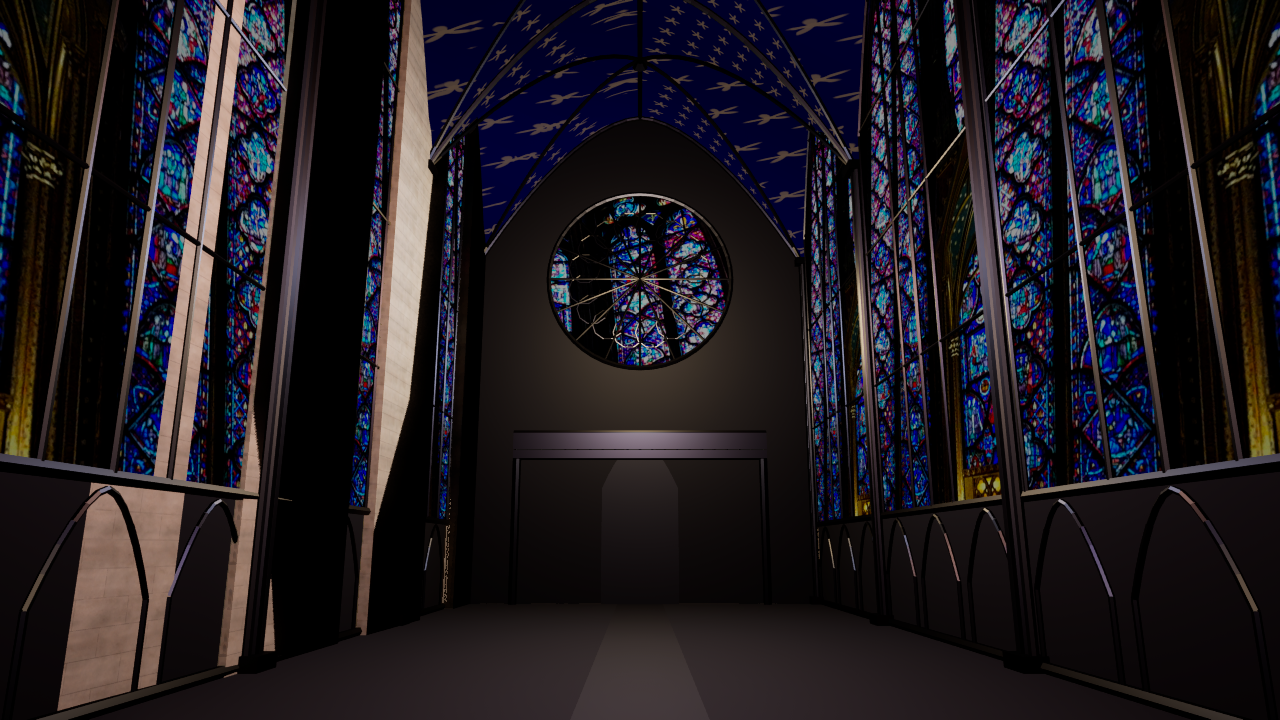
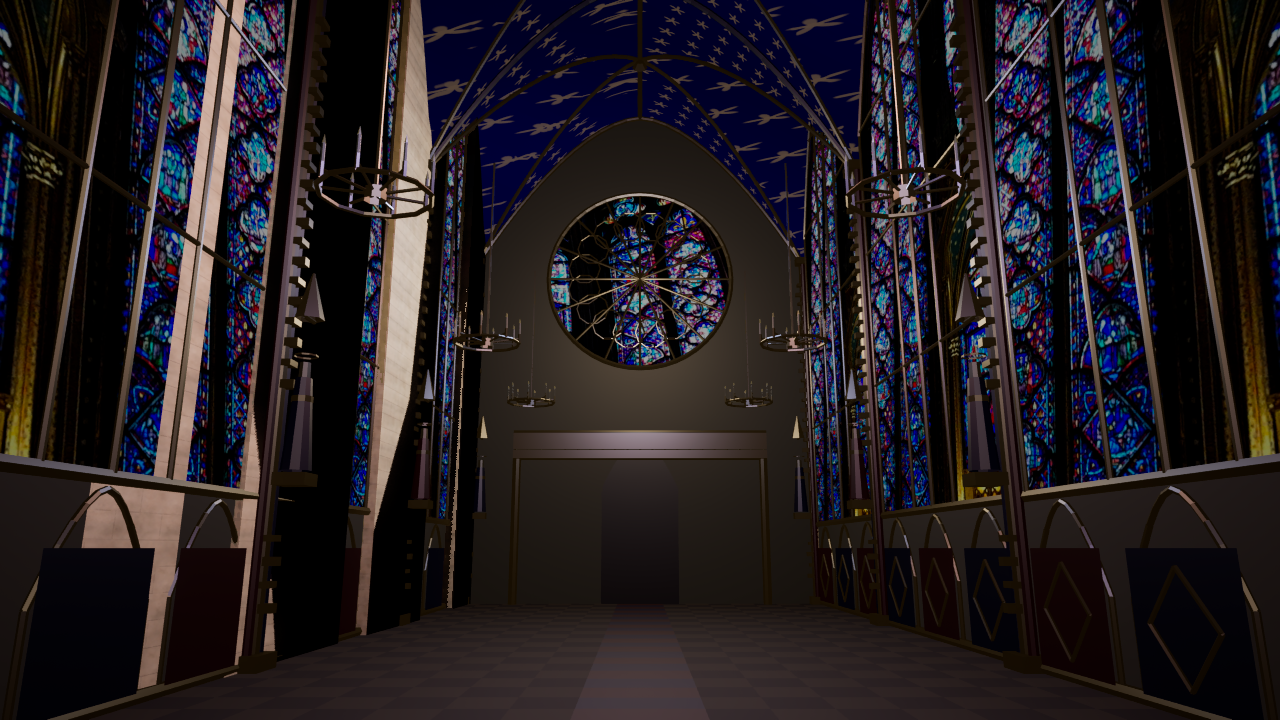
Detail Sainte-Chapelle interior: apostle statues, chandeliers, tabernacle, dado panels

diff --git a/unreal/AIWorld/Source/AIWorld/ParisChapelle.cpp b/unreal/AIWorld/Source/AIWorld/ParisChapelle.cpp
@@ -157,6 +157,51 @@ void BuildInterior(ChapelMesh& S,ChapelMesh& G,ChapelMesh& Vt,int32& Windows){
     for(double Y:{-240.,240.})S.Tube(FVector(-1930,Y,InFloor+600),FVector(-1570,Y,InFloor+600),11,8);
     S.Cone(-1750,0,InFloor+600,InFloor+980,300,8,4);
     S.Col=Red;S.Box(FVector(-1750,0,InFloor+80),FVector(110,60,36));
+    const FLinearColor Skin(.55f,.40f,.20f,.45f),Flame(1.f,.78f,.38f,0.f),Wax(.80f,.74f,.58f,.6f);
+    // Twelve apostle statues on brackets with pointed hoods, standing against the piers (inferred from the published photographs).
+    auto Statue=[&](double X,double Y,double Z,FLinearColor Robe){
+        S.Col=Gold;S.Box(FVector(X,Y,Z-14),FVector(26,26,10));
+        S.Col=Robe;S.Cone(X,Y,Z,Z+150,24,13,10);
+        S.Col=Gold;S.Cone(X,Y,Z+110,Z+120,17,17,10);
+        S.Col=Skin;S.Cone(X,Y,Z+150,Z+176,10,9,8);
+        S.Col=Gold;S.Cone(X,Y,Z+186,Z+189,19,19,10);
+        S.Cone(X,Y,Z+250,Z+330,24,2,6);
+        S.Tube(FVector(X-20,Y,Z+250),FVector(X+20,Y,Z+250),4,6);
+    };
+    for(int32 Sign:{-1,1})for(int32 Pi=0;Pi<5;Pi++)Statue(InPiers[Pi],Sign*(InWallY-52),InFloor+300,(Pi%2)?Red:Blue);
+    for(int32 B=1;B<=6;B++){const FVector P=ApsePier(B);const FVector R=FVector(P.X-InApseX,P.Y,0).GetSafeNormal();Statue(P.X-R.X*44,P.Y-R.Y*44,InFloor+300,(B%2)?Blue:Red);}
+    // Pier diapering: gilt fleuron bands up each shaft.
+    S.Col=Gold;
+    for(int32 Sign:{-1,1})for(int32 Pi=0;Pi<5;Pi++)for(double Z=InFloor+90;Z<InSpring-40;Z+=70){if(FMath::Abs(Z-(InFloor+300))<120)continue;S.Box(FVector(InPiers[Pi],Sign*(InWallY-24),Z),FVector(9,15,7));S.Box(FVector(InPiers[Pi],Sign*(InWallY-24),Z+35),FVector(15,9,5));}
+    // Painted dado behind the blind arcade: alternating red and blue lozenge panels with gilt centres.
+    for(int32 Sign:{-1,1})for(int32 Bay=0;Bay<4;Bay++){
+        const double Cx=InPiers[Bay]+InBayPitch*.5,Y=Sign*(InWallY-8);
+        for(double Off:{-250.,0.,250.}){
+            S.Col=(((int32)(Off/250)+Bay)%2)?Blue:Red;S.Face({FVector(Cx+Off-96,Y,InFloor+12),FVector(Cx+Off+96,Y,InFloor+12),FVector(Cx+Off+96,Y,700),FVector(Cx+Off-96,Y,700)},FVector(0,-Sign,0));
+            S.Col=Gold;S.Tube(FVector(Cx+Off,Y-3,InFloor+30),FVector(Cx+Off+60,Y-3,InFloor+95),3,5);S.Tube(FVector(Cx+Off+60,Y-3,InFloor+95),FVector(Cx+Off,Y-3,InFloor+160),3,5);S.Tube(FVector(Cx+Off,Y-3,InFloor+160),FVector(Cx+Off-60,Y-3,InFloor+95),3,5);S.Tube(FVector(Cx+Off-60,Y-3,InFloor+95),FVector(Cx+Off,Y-3,InFloor+30),3,5);
+        }
+    }
+    // Candelabra chandeliers hanging on chains from the vault.
+    auto Chandelier=[&](double X,double Y,double Zc,double Rr,int32 Candles){
+        S.Col=Gold;S.Tube(FVector(X,Y,Zc+420),FVector(X,Y,Zc),2.5,5);S.Cone(X,Y,Zc-8,Zc+8,14,14,8);
+        for(int32 K=0;K<12;K++){const double A0=2*PI*K/12,A1=2*PI*(K+1)/12;S.Tube(FVector(X+Rr*FMath::Cos(A0),Y+Rr*FMath::Sin(A0),Zc),FVector(X+Rr*FMath::Cos(A1),Y+Rr*FMath::Sin(A1),Zc),3.5,5);}
+        for(int32 K=0;K<Candles;K++){const double A=2*PI*K/Candles;const double CX=X+Rr*FMath::Cos(A),CY=Y+Rr*FMath::Sin(A);
+            S.Col=Gold;S.Tube(FVector(X,Y,Zc),FVector(CX,CY,Zc+10),2.2,5);S.Tube(FVector(CX,CY,Zc),FVector(CX,CY,Zc+20),3,5);
+            S.Col=Wax;S.Tube(FVector(CX,CY,Zc+20),FVector(CX,CY,Zc+44),2.4,6);
+            S.Col=Flame;S.Cone(CX,CY,Zc+44,Zc+56,2.6,.2,6);}
+    };
+    for(int32 Sign:{-1,1}){for(double X:{-1060.,-300.,460.,1200.})Chandelier(X,Sign*330,1130,70,8);}
+    Chandelier(-1750,-330,1050,60,6);Chandelier(-1750,330,1050,60,6);
+    // Reliquary tabernacle: steep gabled canopy with crocketed pinnacles over the dais, framing the central window.
+    S.Col=Gold;
+    for(int32 K=0;K<12;K++){auto Gable=[&](double T){return FVector(-1570,-240+480*T,InFloor+600+(1-FMath::Pow(FMath::Abs(2*T-1),1.4))*340);};S.Tube(Gable(K/12.),Gable((K+1)/12.),7,6);}
+    for(double Y:{-240.,240.}){S.Cone(-1570,Y,InFloor+600,InFloor+840,18,3,6);S.Cone(-1570,Y,InFloor+840,InFloor+900,7,0.5,6);}
+    for(double Y:{-120.,0.,120.}){const double H=InFloor+600+(1-FMath::Pow(FMath::Abs(Y)/240.,1.4))*340;S.Tube(FVector(-1570,Y,InFloor+600),FVector(-1570,Y,H),4,6);for(int32 Cr=1;Cr<4;Cr++)S.Box(FVector(-1570,Y,InFloor+600+(H-InFloor-600)*Cr/4.),FVector(8,8,8));}
+    S.Cone(-1570,0,InFloor+940,InFloor+1010,8,.5,6);
+    S.Col=Blue;S.Face({FVector(-1572,-228,InFloor+604),FVector(-1572,228,InFloor+604),FVector(-1572,0,InFloor+930)},FVector(1,0,0));
+    S.Col=Gold;for(double Y:{-170.,0.,170.})S.Cone(-1572,Y,InFloor+620,InFloor+700,2,2,4);
+    // Kneeling angels beneath the canopy.
+    for(double Y:{-110.,110.}){S.Col=Wax;S.Cone(-1560,Y,InFloor+640,InFloor+720,22,12,8);S.Col=Skin;S.Cone(-1560,Y,InFloor+720,InFloor+745,9,8,8);S.Col=Gold;S.Box(FVector(-1560,Y+(Y>0?-30:30),InFloor+700),FVector(6,34,14));S.Box(FVector(-1560,Y+(Y>0?30:-30),InFloor+700),FVector(6,34,14));}
 }
 }
 AParisChapelleDetail::AParisChapelleDetail(){

diff --git a/unreal/scripts/bake-paris-chapelle-interior.py b/unreal/scripts/bake-paris-chapelle-interior.py
@@ -2,7 +2,7 @@
 import unreal
 a=unreal.EditorAssetLibrary;t=unreal.AssetToolsHelpers.get_asset_tools();l=unreal.MaterialEditingLibrary
 base='/Game/ParisPhotoreal/SainteChapelle'
-RECIPE='sainte_chapelle_interior_v5'
+RECIPE='sainte_chapelle_interior_v9'
 
 def fresh(name):
     pkg=base+'/'+name
@@ -34,7 +34,10 @@ if m:
     m.set_editor_properties(dict(two_sided=True,shading_model=unreal.MaterialShadingModel.MSM_DEFAULT_LIT,blend_mode=unreal.BlendMode.BLEND_OPAQUE))
     vc=l.create_material_expression(m,unreal.MaterialExpressionVertexColor)
     l.connect_material_property(vc,'RGB',unreal.MaterialProperty.MP_BASE_COLOR)
-    l.connect_material_property(vc,'A',unreal.MaterialProperty.MP_ROUGHNESS)
+    rough=custom(m,'return max(A,.25);',{'A':(vc,'A')},unreal.CustomMaterialOutputType.CMOT_FLOAT1)
+    l.connect_material_property(rough,'',unreal.MaterialProperty.MP_ROUGHNESS)
+    glow=custom(m,'return A<.03?V*45.:V*16.;',{'V':(vc,''),'A':(vc,'A')})
+    l.connect_material_property(glow,'',unreal.MaterialProperty.MP_EMISSIVE_COLOR)
     finish(m,'interior')
 
 # 2. Stained glass: the existing CC0 interior photograph, emitted as a backlit window.

diff --git a/docs/paris-sainte-chapelle.md b/docs/paris-sainte-chapelle.md
@@ -23,3 +23,13 @@ Run `Paris-Sainte-Chapelle.cmd`, or `unreal/scripts/Start-ParisDigitalTwin.ps1 -
 残る課題: 石・金の部分が暗く、彫刻や壁画（十二使徒像、扉口の装飾）がない。聖遺物の天蓋は簡略形で、下層礼拝堂は未作成。バラ窓は西壁のみで、本来の複雑な構成には届かない。
 
 ![内部・後陣向き](paris-chapelle-interior-2.png)
+
+## 内部の作り込み（第2弾）
+
+Wikimedia Commons の写真（CC0: "Sainte-Chapelle, Paris, upper chapel windows/rose"、CC BY-SA 4.0: Oberkirche Ost 1/2 ほか）を参照資料として確認し、次を追加した（形状は推定で、写真そのものは再配布していない）。
+
+- 使徒像（柱ごと・後陣）と尖塔付きの天蓋
+- 燭台シャンデリア（燭台の炎は発光）
+- 柱の金の装飾帯、壁下部の赤・青の菱形パネル
+- 聖遺物箱の切妻天蓋、尖塔、天使
+- 石材・金の環境光相当の発光（暗室露出で黒つぶれするため）
